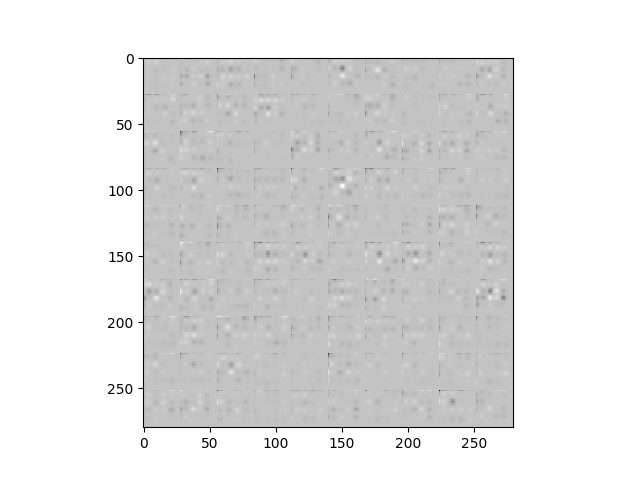
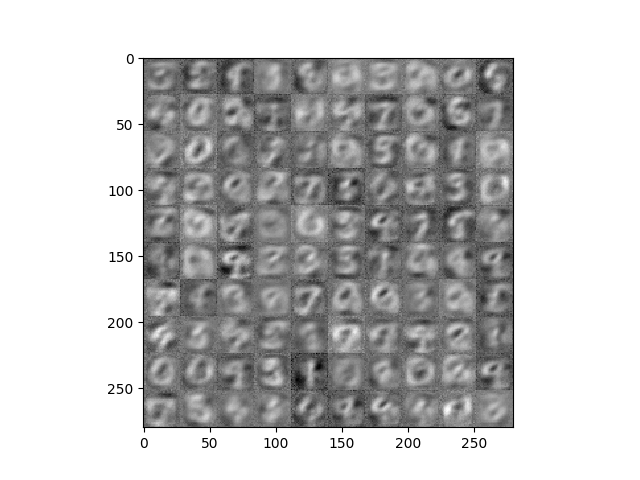
Initial commit

diff --git a/draw.py b/draw.py
@@ -28,12 +28,12 @@ decoder_size  = 256
 T             = 10
 batch_size    = 100
 learning_rate = 1e-3
-num_epochs    = 2
+num_epochs    = 20
 latent_dim    = 10
 eps           = 1e-8
 
 # Attention parameters
-attention = False
+attention = True
 read_n    = 5
 write_n   = 5
 
